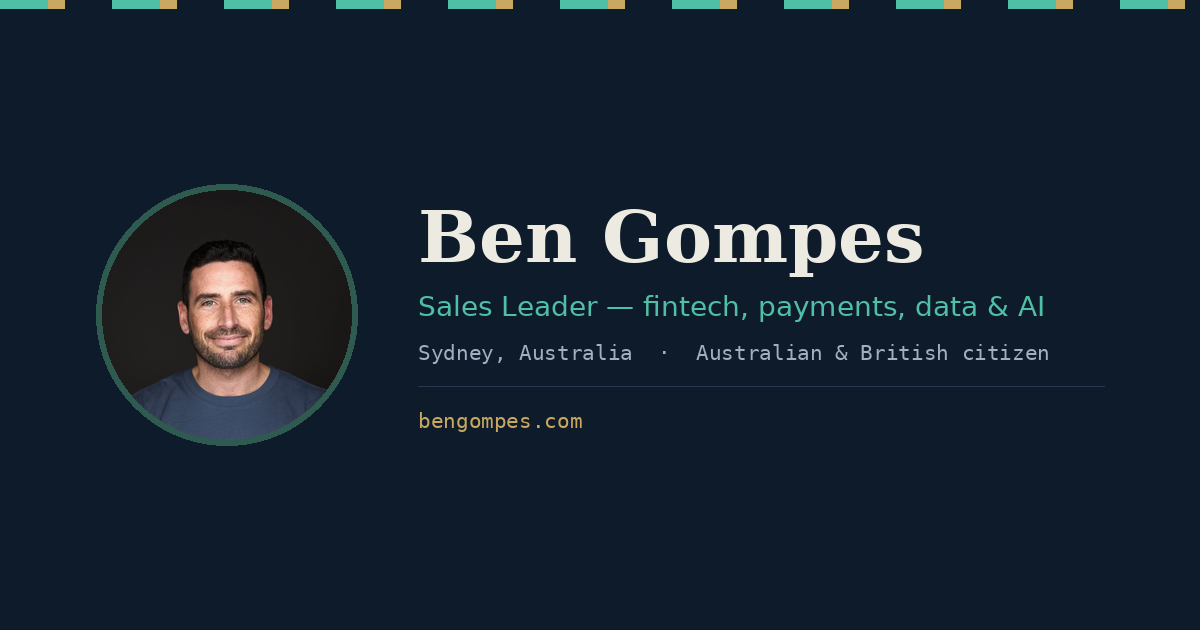
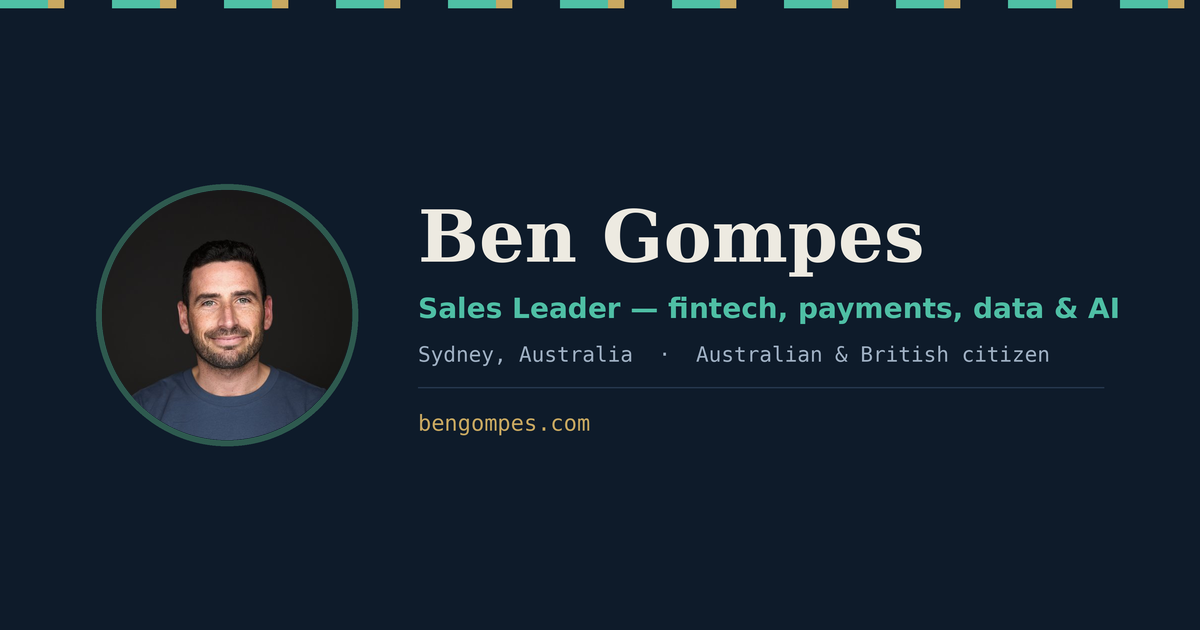
Add files via upload

diff --git a/index.html b/index.html
@@ -7,7 +7,7 @@
 <meta name="description" content="Enterprise Account Executive with 10 years selling complex technology across fintech, payments, data and AI. Building and scaling go-to-market motions in ambiguous markets.">
 
 <meta property="og:title" content="Ben Gompes — Digital CV">
-<meta property="og:description" content="Sales Leader with 10 years selling complex technology across fintech, payments, data and AI.">
+<meta property="og:description" content="Sales Leader with 10 years selling complex technology across fintech, payments, data and AI. Scaled go-to-market motions from founder-led sales through to enterprise expansion at Stripe, Basiq, Darktrace and Telstra.">
 <meta property="og:image" content="https://bengompes.com/og-image.png">
 <meta property="og:image:width" content="1200">
 <meta property="og:image:height" content="630">
@@ -17,7 +17,7 @@
 <meta property="og:type" content="website">
 <meta name="twitter:card" content="summary_large_image">
 <meta name="twitter:title" content="Ben Gompes — Digital CV">
-<meta name="twitter:description" content="Sales Leader with 10 years selling complex technology across fintech, payments, data and AI.">
+<meta name="twitter:description" content="Sales Leader with 10 years selling complex technology across fintech, payments, data and AI. Scaled go-to-market motions from founder-led sales through to enterprise expansion at Stripe, Basiq, Darktrace and Telstra.">
 <meta name="twitter:image" content="https://bengompes.com/og-image.png">
 <link rel="canonical" href="https://bengompes.com/">
 
